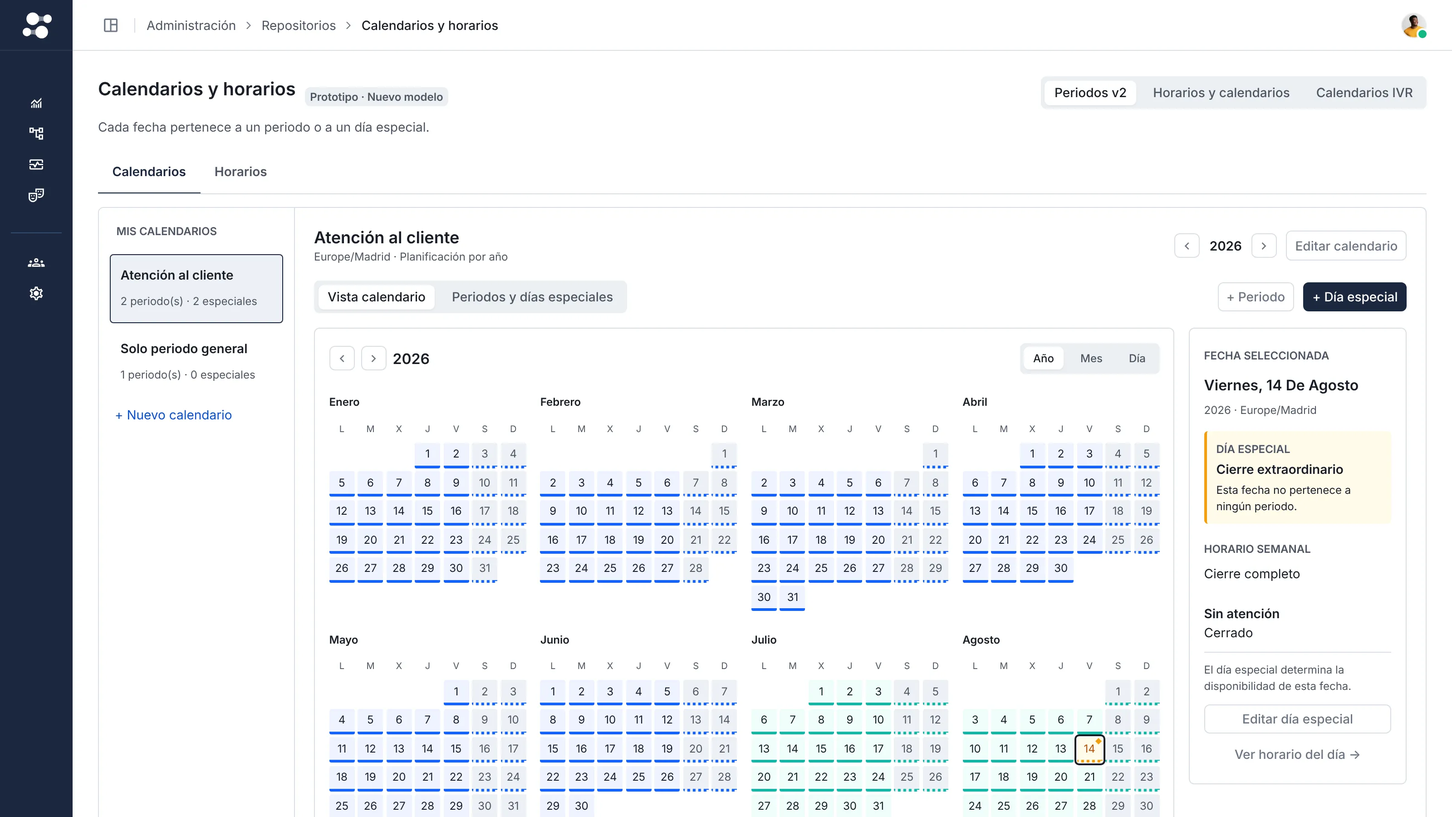
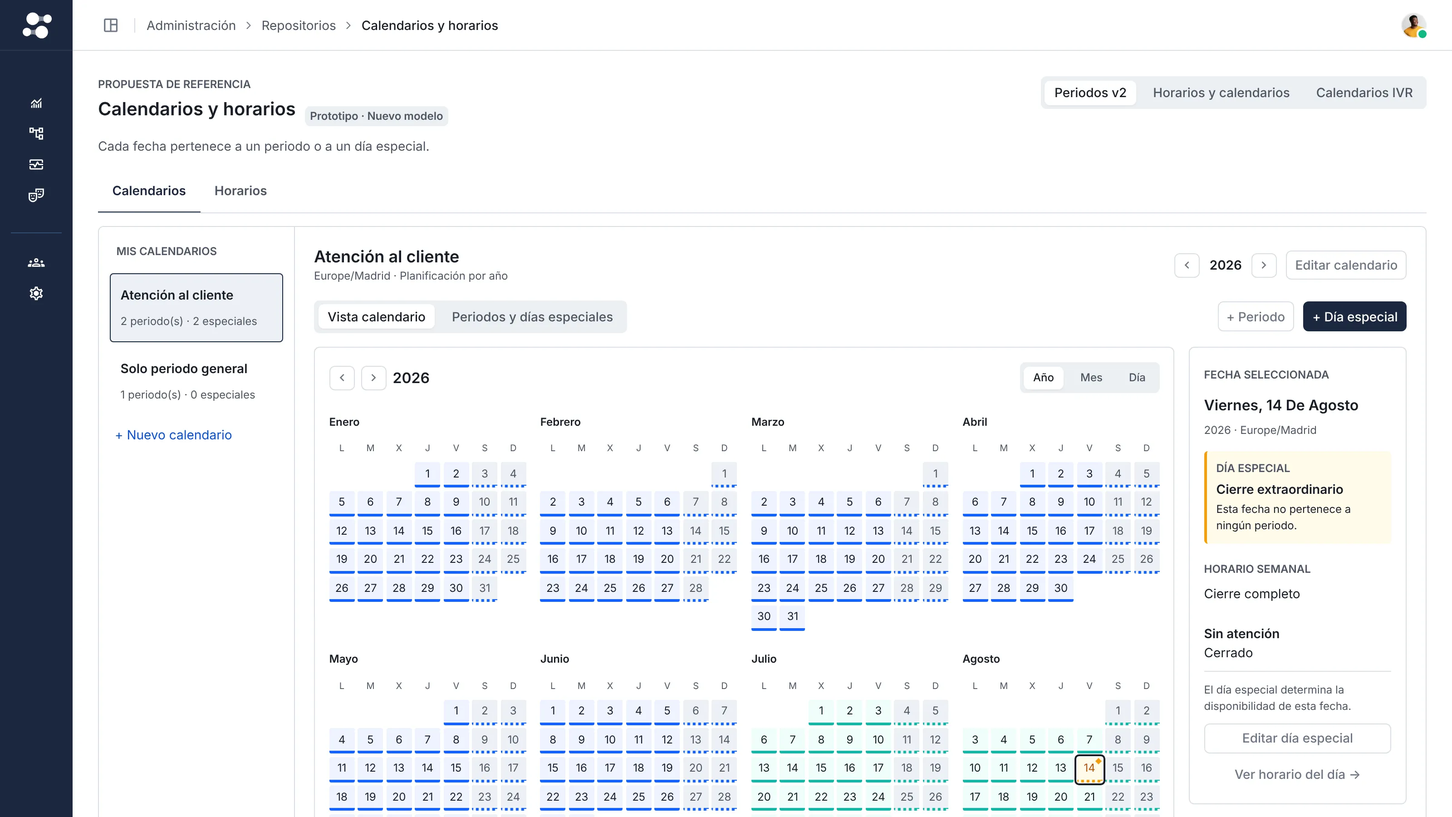
docs(lab): Horarios, la presentación: dos versiones, el Lab y la referencia
La presentación cuenta dos versiones de Horarios: la propuesta de referencia,
que es una sola versión con tres pantallas, y el rediseño del Lab. El texto, las
notas y los títulos ya no la tratan de «tres prototipos» ni la atribuyen a nadie.

- Capturas del Lab repetidas sobre la cabeza de su rama (98e88896): el estado del
  listado ya cabe en una línea («cierra 18:00», «abre mañana 10:00»). El reloj de
  todas las capturas queda fijo el 13 de noviembre a las 14:28.
- Capturas de la referencia repetidas sobre su rama nueva (claude/proto-referencia,
  #617): su cabecera dice «Propuesta de referencia» y el contenido baja 22 px, así
  que las regiones de la cámara bajan con él.
- Los enlaces de la referencia apuntan a su rama nueva y la tarjeta del Lab de
  sc-docs pregunta por la propuesta de referencia.

diff --git a/projects/sc-docs/public/explorations/horarios-presentacion/index.html b/projects/sc-docs/public/explorations/horarios-presentacion/index.html
@@ -3,7 +3,7 @@
 <head>
 <meta charset="utf-8">
 <meta name="viewport" content="width=device-width, initial-scale=1, viewport-fit=cover">
-<meta name="description" content="Horarios lado a lado: los tres prototipos de Calendarios portados tal cual frente al rediseño del Lab, decisión a decisión, qué sube a main y en qué orden, y el primer PR.">
+<meta name="description" content="Horarios lado a lado: la propuesta de referencia, portada tal cual, frente al rediseño del Lab, decisión a decisión; qué sube a main, en qué orden, y el primer PR.">
 <title>Horarios, lado a lado</title>
 <link rel="preload" href="fonts/inter-latin-800-normal.woff2" as="font" type="font/woff2" crossorigin>
 <link rel="preload" href="fonts/inter-latin-500-normal.woff2" as="font" type="font/woff2" crossorigin>
@@ -17,7 +17,7 @@
 @font-face { font-family: 'JetBrains Mono'; font-weight: 600; font-display: swap; src: url(fonts/jetbrains-mono-latin-600-normal.woff2) format('woff2'); }
 
 /* Escenario de 1920 × 1080 escalado a la ventana. Fondo marino de la marca; dos colores que no cambian en todo el
-   recorrido: ámbar para los prototipos portados tal cual, cian para el Lab, y plata para lo que ya está en main. */
+   recorrido: ámbar para la propuesta de referencia, portada tal cual, cian para el Lab, y plata para lo que ya está en main. */
 :root {
   --ink-950: #05080f; --ink-900: #0a101c; --ink-850: #0e1626; --ink-800: #131d31; --ink-700: #1c2942;
   --text: #f5f7fb; --soft: #c3cbd8; --muted: #8f9aad; --faint: #5f6a7d;
@@ -104,7 +104,7 @@ code { font-family: var(--mono); font-size: .86em; color: var(--text); backgroun
 .chip { display: inline-flex; align-items: center; gap: 12px; padding: 14px 20px 14px 16px; border-radius: 14px; background: rgba(255, 255, 255, .05); border: 1px solid var(--line-2); font-size: 23px; font-weight: 600; }
 .chip svg { width: 22px; height: 22px; color: var(--ok); flex: none; }
 
-/* Duo: tus prototipos a la izquierda, el Lab a la derecha */
+/* Duo: la referencia a la izquierda, el Lab a la derecha */
 .k-duo .slot--L { left: 76px; top: 252px; width: 864px; height: 486px; }
 .k-duo .slot--R { left: 980px; top: 252px; width: 864px; height: 486px; }
 
@@ -150,7 +150,7 @@ code { font-family: var(--mono); font-size: .86em; color: var(--text); backgroun
 .cover__shot .side { top: -40px; }
 .cover__shot--b .side { top: auto; bottom: -40px; }
 
-/* Abanico de los tres prototipos */
+/* Abanico: las tres pantallas de la referencia */
 .fan { position: absolute; left: 76px; top: 250px; width: 1120px; height: 760px; }
 .fan__item { position: absolute; width: 760px; height: 427.5px; }
 .fan__item > .slot { inset: 0; }
@@ -358,15 +358,15 @@ code { font-family: var(--mono); font-size: .86em; color: var(--text); backgroun
 const ALT = {
   'm-listado': 'Listado de Horarios en main, con las columnas Ahora y Estado',
   'm-editor': 'Editor de un horario en main: General, la semana día a día y el año a la derecha',
-  'p-periodos-anio': 'Prototipo Periodos v2: lista de calendarios, el año entero y el panel del día',
-  'p-periodos-lista': 'Prototipo Periodos v2: el año repartido entre periodos sin solapes',
-  'p-periodos-horario-editar': 'Prototipo Periodos v2: editor del horario semanal con una fila por día',
-  'p-periodos-periodo': 'Prototipo Periodos v2: diálogo Añadir periodo, que apunta a un horario semanal',
-  'p-periodos-especial': 'Prototipo Periodos v2: diálogo Añadir día especial',
-  'p-horarios-anio': 'Prototipo Horarios y calendarios: el año y el día seleccionado',
-  'p-horarios-reutilizables': 'Prototipo Horarios y calendarios: horarios reutilizables vinculados a calendarios',
-  'p-ivr-horarios': 'Prototipo Calendarios IVR: configuración y horarios por periodo',
-  'p-ivr-simulador': 'Prototipo Calendarios IVR: simulador de llamada que responde Fuera de hora',
+  'p-periodos-anio': 'Referencia, Periodos v2: lista de calendarios, el año entero y el panel del día',
+  'p-periodos-lista': 'Referencia, Periodos v2: el año repartido entre periodos sin solapes',
+  'p-periodos-horario-editar': 'Referencia, Periodos v2: editor del horario semanal con una fila por día',
+  'p-periodos-periodo': 'Referencia, Periodos v2: diálogo Añadir periodo, que apunta a un horario semanal',
+  'p-periodos-especial': 'Referencia, Periodos v2: diálogo Añadir día especial',
+  'p-horarios-anio': 'Referencia, Horarios y calendarios: el año y el día seleccionado',
+  'p-horarios-reutilizables': 'Referencia, Horarios y calendarios: horarios reutilizables vinculados a calendarios',
+  'p-ivr-horarios': 'Referencia, Calendarios IVR: configuración y horarios por periodo',
+  'p-ivr-simulador': 'Referencia, Calendarios IVR: simulador de llamada que responde Fuera de hora',
   'l-listado': 'Lab: Tiempo, la lista de horarios con una sola columna de estado',
   'l-festivos': 'Lab: Tiempo, las listas de festivos con cuántos horarios las aplican',
   'l-editor': 'Lab: editor de Postventa con la semana en tramos, tres meses y Nochebuena elegida',
@@ -378,20 +378,23 @@ const ALT = {
   'l-periodo': 'Lab: diálogo de periodo con su semana por tramos',
 };
 const TONE = (img) => img[0] === 'p' ? 'proto' : img[0] === 'l' ? 'lab' : 'main';
-const SIDE_LABEL = { proto: 'Tu prototipo <span>portado tal cual</span>', lab: 'Lab <span>el rediseño</span>', main: 'Main <span>hoy</span>' };
+const SIDE_LABEL = { proto: 'Referencia <span>portada tal cual</span>', lab: 'Lab <span>el rediseño</span>', main: 'Main <span>hoy</span>' };
 
-const CHAPTERS = ['Punto de partida', 'Tu modelo', 'Lado a lado', 'Lo que falta', 'Hacia main', '«Ahora»', 'Para decidir'];
+/* Dónde se toca cada versión: el preview de su rama. */
+const REF = { href: 'https://claude-proto-referencia.sc-supervisor.pages.dev/lab/calendarios/periodos', u: 'claude-proto-referencia.sc-supervisor.pages.dev/lab/calendarios', pr: '#617' };
+
+const CHAPTERS = ['Punto de partida', 'La referencia', 'Lado a lado', 'Lo que falta', 'Hacia main', '«Ahora»', 'Para decidir'];
 
 /* Regiones, en píxeles de la captura (1600 × 900). */
 const R = {
   m_cols: [740, 160, 830, 500], m_ahoraVerano: [758, 410, 82, 40], m_estadoVerano: [1428, 410, 82, 40], m_ahoraCol: [752, 172, 92, 476],
   m_general: [107, 128, 717, 400], m_semana: [107, 547, 717, 353], m_dia: [880, 232, 668, 140],
-  p_lista: [110, 232, 215, 250], p_anio: [346, 362, 948, 538], p_tabs: [108, 172, 220, 42], p_nav: [100, 150, 470, 340],
-  p_distrib: [346, 416, 1203, 106], p_filas: [421, 365, 757, 227], p_select: [491, 392, 616, 59], p_dialogo: [475, 150, 648, 598],
-  p_especial: [475, 198, 648, 501], p_aviso: [107, 771, 1464, 42], p_tarjetas: [107, 296, 1464, 520],
-  p_resultado: [872, 331, 680, 569], p_publicar: [1192, 187, 360, 32],
+  p_lista: [110, 254, 215, 250], p_anio: [346, 384, 948, 516], p_tabs: [108, 194, 220, 42], p_nav: [100, 172, 470, 340],
+  p_distrib: [346, 438, 1203, 106], p_filas: [421, 365, 757, 227], p_select: [491, 392, 616, 59], p_dialogo: [475, 150, 648, 598],
+  p_especial: [475, 198, 648, 501], p_aviso: [107, 793, 1464, 42], p_tarjetas: [107, 318, 1464, 520],
+  p_resultado: [872, 353, 680, 547], p_publicar: [1192, 209, 360, 32],
   l_tabs: [107, 136, 261, 37], l_miga: [157, 16, 171, 26], l_cabeza: [100, 0, 720, 250], l_estadoCol: [544, 232, 264, 480],
-  l_fines: [550, 330, 222, 36], l_verano: [550, 477, 72, 36], l_general: [550, 380, 196, 36],
+  l_fines: [550, 330, 189, 36], l_verano: [550, 477, 73, 33], l_general: [550, 379, 143, 36],
   l_tabla: [107, 291, 1464, 140], l_uso: [1272, 291, 140, 140],
   l_tramos: [130, 187, 374, 328], l_dia: [566, 427, 983, 72], l_yalas: [1280, 426, 262, 40], l_leyenda: [130, 747, 374, 112],
   l_tira: [544, 128, 1027, 392], l_toggle: [1421, 152, 128, 29],
@@ -406,8 +409,8 @@ const SLIDES = [
     kind: 'cover', ch: 0,
     title: 'Portada',
     beats: [
-      { t: 8, note: 'En unos minutos te cuento cómo hemos llegado al rediseño de Horarios y por qué decide distinto en algunas cosas. Todo lo que vas a ver son capturas de pantallas reales, no maquetas.' },
-      { t: 9, note: 'Las dos versiones viven en ramas aparte, en borrador, y no tocan main. Tus prototipos están portados tal cual, con nuestros componentes, para que comparemos flujos y no estilos. Si quieres tocarlas mientras hablamos, son estos dos enlaces.' },
+      { t: 8, note: 'En unos minutos, cómo hemos llegado al rediseño de Horarios y por qué decide distinto en algunas cosas. Todo lo que se ve son capturas de pantallas reales, no maquetas.' },
+      { t: 9, note: 'Las dos versiones viven en ramas aparte, en borrador, y no tocan main. La referencia está portada tal cual, con nuestros componentes, para comparar flujos y no estilos. Para tocarlas mientras se habla, están estos dos enlaces.' },
     ],
   },
   {
@@ -429,7 +432,7 @@ const SLIDES = [
     kind: 'single', ch: 0, S: 'm-editor',
     eyebrow: '01 · Punto de partida',
     title: 'El editor enseña el resultado al lado, pero no cabe en una pantalla',
-    fact: { k: 'Se queda', t: 'El día elegido dice <b>sus horas y qué regla las decide</b> (DD-254). Está en las tres versiones.' },
+    fact: { k: 'Se queda', t: 'El día elegido dice <b>sus horas y qué regla las decide</b> (DD-254). Está en main y en las dos versiones.' },
     beats: [
       { cap: 'Las reglas a la izquierda y el año a la derecha, que se repinta con cada cambio.', note: 'La idea de ver el resultado al lado ya estaba en main y es buena. Lo que falla es el espacio.' },
       { S: { cam: R.m_general, rings: [{ r: R.m_general }] },
@@ -440,15 +443,15 @@ const SLIDES = [
         note: 'Para ver el horario entero hay que hacer scroll, y al hacerlo se pierde el calendario.' },
       { S: { cam: R.m_dia, rings: [{ r: R.m_dia }] },
         cap: 'Lo bueno se queda: el día elegido dice <b>sus horas y de dónde salen</b>.',
-        note: 'Esto lo mantenemos en todas las versiones, también en la tuya.' },
+        note: 'Esto se mantiene en main y en las dos versiones.' },
     ],
   },
 
-  /* ── 02 · Tu modelo ─────────────────────────────────────────────────────────────────────── */
+  /* ── 02 · La referencia ─────────────────────────────────────────────────────────────────── */
   {
     kind: 'fan', ch: 1, imgs: ['p-periodos-anio', 'p-horarios-anio', 'p-ivr-horarios'], labels: ['Periodos v2', 'Horarios y calendarios', 'Calendarios IVR'],
-    eyebrow: '02 · Tu modelo',
-    title: 'Tus tres prototipos dicen lo mismo',
+    eyebrow: '02 · La referencia',
+    title: 'Una propuesta de referencia, <em>tres pantallas</em>',
     list: [
       ['El calendario es lo que se usa.', 'Tiene zona horaria y resuelve cada fecha por capas: día especial, periodo y semana habitual.'],
       ['El horario semanal es una pieza.', 'Varios calendarios la comparten y la reutilizan.'],
@@ -456,7 +459,7 @@ const SLIDES = [
       ['Se comprueba antes de guardar.', 'Una fecha a una hora, y los solapes entre periodos.'],
     ],
     beats: [
-      { t: 7, note: 'Los he leído como uno solo, porque coinciden en lo importante. Periodos v2 es el más maduro, así que es el que más uso para comparar.' },
+      { t: 7, note: 'La referencia es una sola propuesta repartida en tres pantallas, y las tres coinciden en lo importante. Periodos v2 es la más madura, así que es la que más uso para comparar.' },
       { lift: 0, t: 8, note: 'En los tres, lo que se asigna a un grupo o a la IVR es el calendario. Por eso es él quien tiene la zona horaria.' },
       { lift: 1, t: 7, note: 'Y el horario semanal es la pieza que se reutiliza: en Horarios y calendarios dice a cuántos calendarios está vinculado.' },
       { lift: 0, t: 7, note: 'Abrir en el año da contexto al instante, y el panel del día contesta a «¿por qué este día es así?».' },
@@ -465,22 +468,22 @@ const SLIDES = [
   },
   {
     kind: 'duo', ch: 1, L: 'p-periodos-lista', R: 'l-editor',
-    eyebrow: '02 · Tu modelo',
-    title: 'En lo que más importa, <em>ya pensamos igual</em>',
+    eyebrow: '02 · La referencia',
+    title: 'En lo que más importa, <em>las dos coinciden</em>',
     chips: ['Un dueño por fecha', 'Periodos sin solape', 'El día dice de dónde sale', 'Comprobar una hora'],
     chipsAt: 4,
     beats: [
       { cap: 'Las dos versiones dan a cada fecha <b>un solo dueño</b>, y lo enseñan en pantalla.', note: 'Antes de las diferencias, lo que compartimos. Es más de lo que parece.' },
       { L: { cam: R.p_distrib, rings: [{ r: R.p_distrib, label: 'Cada día, de un solo periodo', pos: 'b' }] },
-        cap: 'Tu Periodos v2 lo dibuja como una barra: cada día del año pertenece a un periodo o a un día especial, <b>sin solapes</b>.',
-        note: 'Esta barra es de lo mejor de tu prototipo: se entiende de un vistazo que no hay huecos ni dobles.' },
+        cap: 'Periodos v2 lo dibuja como una barra: cada día del año pertenece a un periodo o a un día especial, <b>sin solapes</b>.',
+        note: 'Esta barra es de lo mejor de la referencia: se entiende de un vistazo que no hay huecos ni dobles.' },
       { R: { cam: R.l_leyenda, rings: [{ r: R.l_leyenda, label: 'Manda el de más arriba', pos: 't' }] },
         cap: 'El Lab aplica la misma regla y la dice en el editor: día especial o festivo, después periodo, después semana habitual.',
-        note: 'Es tu orden de capas, con el festivo al nivel del día especial.' },
+        note: 'Es el mismo orden de capas de la referencia, con el festivo al nivel del día especial.' },
       { R: { cam: [560, 410, 995, 110], rings: [{ r: R.l_dia }, { r: R.l_yalas, label: '¿Y a las 14:28?', pos: 'b' }] },
         cap: 'Y los dos explican un día concreto: Nochebuena abre <b>de 09:00 a 14:00</b> porque es día especial, y a las 14:28 ya no se atiende.',
-        note: 'Tu panel de «Fecha seleccionada» y esta barra hacen el mismo trabajo. La diferencia es que aquí también se comprueba una hora sin salir del editor.' },
-      { cap: 'Cuatro ideas tuyas que el rediseño conserva tal cual:', note: 'Con esto en común, las diferencias son de flujo, no de modelo de datos.' },
+        note: 'El panel «Fecha seleccionada» de la referencia y esta barra hacen el mismo trabajo. La diferencia es que aquí también se comprueba una hora sin salir del editor.' },
+      { cap: 'Cuatro ideas de la referencia que el rediseño conserva tal cual:', note: 'Con esto en común, las diferencias son de flujo, no de modelo de datos.' },
     ],
   },
 
@@ -490,9 +493,9 @@ const SLIDES = [
     eyebrow: '03 · Decisión <i>1</i> de 7',
     title: 'Se comparten <em>los festivos</em>, no la semana',
     beats: [
-      { cap: 'Tu modelo comparte franjas y semanas entre calendarios. <b>El Lab comparte listas de festivos.</b>', note: 'Esta es la diferencia de fondo, y de ella salen casi todas las demás.' },
-      { L: { cam: [107, 600, 1464, 260], rings: [{ r: R.p_aviso, label: 'Tu propio aviso', pos: 't' }] },
-        cap: 'Tu prototipo ya avisa del riesgo: <b>si cambias un horario compartido, cambian todos los calendarios vinculados.</b>',
+      { cap: 'La referencia comparte franjas y semanas entre calendarios. <b>El Lab comparte listas de festivos.</b>', note: 'Esta es la diferencia de fondo, y de ella salen casi todas las demás.' },
+      { L: { cam: [107, 622, 1464, 260], rings: [{ r: R.p_aviso, label: 'Su propio aviso', pos: 't' }] },
+        cap: 'La referencia ya avisa del riesgo: <b>si cambias un horario compartido, cambian todos los calendarios vinculados.</b>',
         note: 'Compartir una semana es cómodo hasta que un equipo necesita salir media hora antes que otro.' },
       { R: { cam: [107, 250, 1464, 220], rings: [{ r: R.l_uso, label: 'La aplican 2 horarios', pos: 'b' }] },
         cap: 'Una lista de festivos sí se repite tal cual entre equipos, y caduca cada año. <b>Festivos Barcelona la aplican dos horarios.</b>',
@@ -506,7 +509,7 @@ const SLIDES = [
     eyebrow: '03 · Decisión <i>2</i> de 7',
     title: 'Vive en Repositorios, dentro de <em>«Tiempo»</em>',
     beats: [
-      { cap: 'Tu prototipo es una página propia con pestañas. El Lab lo pone en Repositorios, en una clasificación <b>«Tiempo» con dos listas</b>.', note: 'Dónde vive cambia cómo se llega y cómo se explica.' },
+      { cap: 'La referencia es una página propia con pestañas. El Lab lo pone en Repositorios, en una clasificación <b>«Tiempo» con dos listas</b>.', note: 'Dónde vive cambia cómo se llega y cómo se explica.' },
       { L: { cam: R.p_nav, rings: [{ r: R.p_tabs, label: 'Calendarios y Horarios', pos: 'b' }] },
         cap: 'Calendarios y Horarios, cada uno con su lista a la izquierda y el detalle a la derecha.',
         note: 'Es una página completa para un área que, en el menú, compite con Agendas o Tipificaciones.' },
@@ -514,7 +517,7 @@ const SLIDES = [
         cap: 'En el Lab son dos pestañas de la misma clasificación, y se llega <b>como a Agendas o a Tipificaciones</b>.',
         note: 'Mismo patrón que el resto de Repositorios: nadie tiene que aprender una pantalla nueva.' },
       { why: 'Repositorios es donde el supervisor ya busca lo que reutiliza. Y una tarjeta nueva en el hub no cabe a 1440 × 800 (DD-251); una pestaña dentro de «Tiempo», sí.',
-        note: 'Esta la decidimos el 13 de noviembre. Si prefieres una entrada propia, es la decisión más fácil de cambiar de todas.' },
+        note: 'Se decidió el 13 de noviembre. Si se prefiere una entrada propia, es la decisión más fácil de cambiar de todas.' },
     ],
   },
   {
@@ -523,12 +526,12 @@ const SLIDES = [
     title: 'El listado dice si se atiende ahora, <em>y hasta cuándo</em>',
     beats: [
       { cap: 'Lo primero que se mira de un horario no es cuántas reglas tiene: <b>es si está atendiendo</b>.', note: 'Pensemos en quien abre esta lista un martes a las 17:50.' },
-      { L: { cam: R.p_lista, rings: [{ r: [121, 280, 191, 75], label: '2 periodos, 2 especiales', pos: 'b' }] },
-        cap: 'Tu lista de calendarios cuenta periodos y días especiales.',
+      { L: { cam: R.p_lista, rings: [{ r: [121, 302, 191, 75], label: '2 periodos, 2 especiales', pos: 'b' }] },
+        cap: 'La lista de calendarios de la referencia cuenta periodos y días especiales.',
         note: 'Es útil para quien lo configura, pero no responde a la pregunta del momento.' },
       { R: { cam: R.l_estadoCol, rings: [{ r: R.l_fines, label: 'Cuándo abre', pos: 't' }, { r: R.l_verano, label: 'Inactivo, sin hora', pos: 'b' }] },
         cap: 'El Lab junta «Ahora» y «Estado» en una columna: <b>abierto o cerrado, y cuándo cambia</b>; o «Inactivo», sin hora.',
-        note: '«Cerrado, abre mañana a las 10:00». Una sola lectura, y en la zona horaria de cada horario.' },
+        note: '«Cerrado, abre mañana 10:00». Una sola lectura, corta para que quepa en una línea, y en la zona horaria de cada horario.' },
       { why: 'El número de reglas se ve al abrir el horario. El estado de ahora es lo que se consulta de un vistazo, y main ya sabe calcularlo: solo falta decirlo.',
         note: 'Por eso es el primer PR que propongo: el cálculo ya existe y está probado.' },
     ],
@@ -538,7 +541,7 @@ const SLIDES = [
     eyebrow: '03 · Decisión <i>4</i> de 7',
     title: 'La semana se escribe <em>en tramos</em>, no día a día',
     beats: [
-      { cap: 'Tu editor tiene una fila por día y «Copiar lunes a». <b>El Lab agrupa los días que comparten horas.</b>', note: 'Es la parte del editor que más se toca, así que es donde más se nota.' },
+      { cap: 'El editor de la referencia tiene una fila por día y «Copiar lunes a». <b>El Lab agrupa los días que comparten horas.</b>', note: 'Es la parte del editor que más se toca, así que es donde más se nota.' },
       { L: { cam: R.p_filas, rings: [{ r: R.p_filas, label: 'Tres veces lo mismo', pos: 'b' }] },
         cap: 'Lunes, martes y miércoles repiten 09:00 a 14:00 y 16:00 a 18:00. <b>Cada cambio se hace en cada fila</b>, o se vuelve a copiar.',
         note: 'Con siete días y jornada partida son catorce campos de hora para decir una sola cosa.' },
@@ -554,9 +557,9 @@ const SLIDES = [
     eyebrow: '03 · Decisión <i>5</i> de 7',
     title: 'La semana y el calendario, <em>a la vista a la vez</em>',
     beats: [
-      { cap: 'Tu prototipo abre en el año, y las horas se cambian en otra pestaña. <b>En el Lab, la semana y el calendario comparten pantalla.</b>', note: 'Esta es la petición con la que empezó el rediseño.' },
+      { cap: 'La referencia abre en el año, y las horas se cambian en otra pestaña. <b>En el Lab, la semana y el calendario comparten pantalla.</b>', note: 'Esta es la petición con la que empezó el rediseño.' },
       { L: { cam: R.p_anio },
-        cap: 'El año de tu Periodos v2 se lee muy bien, pero <b>de septiembre a diciembre queda por debajo del pliegue</b>.',
+        cap: 'El año de Periodos v2 se lee muy bien, pero <b>de septiembre a diciembre queda por debajo del pliegue</b>.',
         note: 'Y para cambiar una hora hay que salir a la pestaña Horarios y volver.' },
       { R: { cam: R.l_tira, rings: [{ r: R.l_toggle, label: '3 meses o año', pos: 'bl' }] },
         cap: 'El Lab pinta el año en una tira de 12 × 31 que <b>cabe entera</b>, y cambia a tres meses cuando hace falta detalle.',
@@ -570,7 +573,7 @@ const SLIDES = [
     eyebrow: '03 · Decisión <i>6</i> de 7',
     title: 'Los periodos nacen en el calendario <em>y llevan su semana</em>',
     beats: [
-      { cap: 'Para crear un periodo, tu prototipo pide fechas y un horario semanal que ya exista. <b>El Lab parte de los días que eliges en el calendario.</b>', note: 'Aquí se nota la diferencia de modelo de la decisión 1.' },
+      { cap: 'Para crear un periodo, la referencia pide fechas y un horario semanal que ya exista. <b>El Lab parte de los días que eliges en el calendario.</b>', note: 'Aquí se nota la diferencia de modelo de la decisión 1.' },
       { L: { cam: R.p_dialogo, rings: [{ r: R.p_select, label: 'Hay que crearlo antes', pos: 'b' }] },
         cap: 'El periodo apunta a un horario de la biblioteca. Un día especial, igual: <b>o cerrado todo el día, o un horario semanal entero</b>.',
         note: 'Para abrir Nochebuena hasta las 14:00 hay que crear antes una semana completa que solo se usa ese día.' },
@@ -580,7 +583,7 @@ const SLIDES = [
       { R: { img: 'l-periodo', cam: R.l_semanaPeriodo, rings: [{ r: R.l_semanaPeriodo, label: 'Su semana, en tramos', pos: 't' }] },
         cap: 'El periodo lleva dentro su semana, con los mismos tramos. Y un día especial puede ser <b>«Horario especial» de 09:00 a 14:00</b> sin crear una semana para un día.',
         note: 'El diálogo de periodo del Lab hereda la lógica del de producción; solo cambia la semana por la de tramos.' },
-      { why: 'Saber a qué hora cierra un viernes de verano no debería pedir tres saltos: calendario, periodo y horario semanal. Tu validación se queda: dos periodos no comparten fechas, y el error nombra al otro.',
+      { why: 'Saber a qué hora cierra un viernes de verano no debería pedir tres saltos: calendario, periodo y horario semanal. La validación de la referencia se queda: dos periodos no comparten fechas, y el error nombra al otro.',
         note: 'La validación de solapes está en main desde DD-251 y el Lab la usa tal cual.' },
     ],
   },
@@ -589,7 +592,7 @@ const SLIDES = [
     eyebrow: '03 · Decisión <i>7</i> de 7',
     title: 'Los festivos se importan, <em>no se escriben uno a uno</em>',
     beats: [
-      { cap: 'En tu prototipo cada festivo es un día especial que se crea a mano, y <b>al cambiar de año no se copia</b>.', note: 'Tu Periodos v2 lo dice a propósito: los periodos y días especiales tienen fechas concretas.' },
+      { cap: 'En la referencia cada festivo es un día especial que se crea a mano, y <b>al cambiar de año no se copia</b>.', note: 'Periodos v2 lo dice a propósito: los periodos y días especiales tienen fechas concretas.' },
       { L: { cam: R.p_especial, rings: [{ r: R.p_especial }] },
         cap: 'Doce festivos son <b>doce veces este diálogo</b>, y otra vez el año siguiente.',
         note: 'Y con varios horarios, cada uno repite los mismos doce.' },
@@ -611,7 +614,7 @@ const SLIDES = [
   {
     kind: 'single', ch: 3, S: 'p-ivr-simulador',
     eyebrow: '04 · Lo que falta en el Lab',
-    title: 'Lo que tus prototipos tienen y <em>el Lab todavía no</em>',
+    title: 'Lo que la referencia tiene y <em>el Lab todavía no</em>',
     list: [
       [1, '<b>Mensaje de fuera de hora</b> por regla, y el simulador de llamada.'],
       [2, '<b>Versiones:</b> borrador, guardar versión y publicar.'],
@@ -619,11 +622,11 @@ const SLIDES = [
     ],
     propuesta: { at: 3, t: 'Entran después de la pantalla, junto con el nodo de horario del Diseñador VUI. DD-251 ya los dejó fuera de la primera tanda.' },
     beats: [
-      { cap: 'Tu Calendarios IVR responde a la pregunta que de verdad importa en producción: <b>¿qué oye quien llama ahora mismo?</b>', note: 'Aquí tu prototipo va por delante, y lo quiero decir claro.' },
+      { cap: 'Calendarios IVR responde a la pregunta que de verdad importa en producción: <b>¿qué oye quien llama ahora mismo?</b>', note: 'Aquí la referencia va por delante, y conviene decirlo claro.' },
       { S: { cam: R.p_resultado, rings: [{ r: R.p_resultado }] },
         cap: '«Fuera de hora», con su mensaje, la regla que decide y por qué. <b>El Lab no tiene esto.</b>',
         note: 'Es la pieza que une horarios e IVR, y la que más valor da a soporte.' },
-      { S: { cam: [1040, 150, 540, 110], rings: [{ r: R.p_publicar, label: 'Validado, borrador, publicar', pos: 'bl' }] },
+      { S: { cam: [1040, 172, 540, 110], rings: [{ r: R.p_publicar, label: 'Validado, borrador, publicar', pos: 'bl' }] },
         cap: 'Y publicar con versiones: en un cambio de horario en caliente, <b>es tranquilidad</b>.',
         note: 'Un cambio de horario mal hecho deja a clientes sin atender. Poder volver atrás vale mucho.' },
       { cap: 'Nada de esto choca con el rediseño: <b>se suma encima</b>.', note: 'Propongo dejarlo para después de la pantalla, cuando el modelo esté cerrado.' },
@@ -642,17 +645,17 @@ const SLIDES = [
       { t: 'Elegir y actuar en el calendario', where: 'Editor', size: 'M', d: 'Día, rango o semana, la barra de acciones y «¿Y a las…?».' },
       { t: 'El editor sin scroll', where: 'Editor', size: 'M', d: 'Dos filas a la derecha y una sola lista de excepciones. Recoloca lo anterior.' },
       { t: 'Festivos importados', where: 'Festivos', size: 'M', d: 'De dónde salen los oficiales: un catálogo anual o un servicio.', dep: 'Espera una decisión de datos' },
-      { t: '«Tiempo» en Repositorios', where: 'Hub y listas', size: 'L', d: 'Cambia el hub y su COA.', dep: 'Espera tu visto bueno' },
+      { t: '«Tiempo» en Repositorios', where: 'Hub y listas', size: 'L', d: 'Cambia el hub y su COA.', dep: 'Espera el visto bueno' },
     ],
-    foot: '<b>No sube:</b> el andamio del Lab (rutas <code>/lab</code> y textos solo en español) ni el port literal de tus prototipos, que se queda como referencia.',
+    foot: '<b>No sube:</b> el andamio del Lab (rutas <code>/lab</code> y textos solo en español) ni el port literal de la referencia, que se queda para consultar.',
     beats: [
       { t: 7, note: 'Lo ordeno por riesgo y por dependencias: primero lo que no depende de nadie y se puede probar solo.' },
       { cap: 'Empieza por lo más pequeño y visible: <b>el listado</b>.', note: 'Un PR de un día, que mejora algo que se ve en cuanto se entra.' },
       { cap: 'Después la semana, que es <b>lo que más se toca</b> del editor.', note: 'Cambia también la semana del diálogo de periodo, que comparte la pieza.' },
-      { cap: 'Con la semana en su sitio, <b>elegir días y actuar sobre ellos</b>.', note: 'Aquí entra «¿Y a las…?», que es tu «Comprobar fecha» dentro del editor.' },
+      { cap: 'Con la semana en su sitio, <b>elegir días y actuar sobre ellos</b>.', note: 'Aquí entra «¿Y a las…?», que es el «Comprobar fecha» de la referencia dentro del editor.' },
       { cap: 'La maqueta sin scroll va cuarta: <b>recoloca lo anterior</b>, así que se hace cuando ya funciona.', note: 'Si la hiciéramos primero, la rehaceríamos dos veces.' },
       { cap: 'Los festivos importados esperan a una <b>decisión de datos</b>.', note: '¿Mantenemos un catálogo por año, o lo leemos de un servicio? Es una pregunta para producto y backend.' },
-      { cap: '«Tiempo» en el hub, al final: <b>toca a todos</b>, y conviene decidirlo contigo.', note: 'Es la única que cambia la navegación.' },
+      { cap: '«Tiempo» en el hub, al final: <b>toca a todos</b>, y conviene decidirlo juntos.', note: 'Es la única que cambia la navegación.' },
       { cap: 'Cada paso es útil por sí solo: <b>si paramos en el tercero, main ya está mejor que hoy</b>.', note: 'Y nada del Lab entra tal cual: cada pieza pasa por las reglas de main, sus cuatro idiomas y sus pruebas.' },
     ],
   },
@@ -665,10 +668,10 @@ const SLIDES = [
     ejemplos: {
       at: 3,
       rows: [
-        ['Horario General', 'jueves a las 17:00', 'open', 'cierra a las 18:00'],
-        ['Horario General', 'viernes a las 19:00', 'closed', 'abre el lun a las 09:00'],
-        ['Postventa', '24 de diciembre a las 13:00, día especial', 'open', 'cierra a las 14:00'],
-        ['Horario LATAM', '12:44 en Madrid, 05:44 en México', 'closed', 'abre a las 14:00'],
+        ['Horario General', 'jueves a las 17:00', 'open', 'cierra 18:00'],
+        ['Horario General', 'viernes a las 19:00', 'closed', 'abre lun 09:00'],
+        ['Postventa', '24 de diciembre a las 13:00, día especial', 'open', 'cierra 14:00'],
+        ['Horario LATAM', '12:44 en Madrid, 05:44 en México', 'closed', 'abre 14:00'],
         ['24/7 Emergencias', 'cualquier momento', 'open', 'siempre'],
         ['Horario Verano', 'desactivado', 'off', ''],
       ],
@@ -711,20 +714,20 @@ const SLIDES = [
     eyebrow: '07 · Para decidir hoy',
     title: 'Tres preguntas, <em>y la tercera no espera</em>',
     qs: [
-      ['¿Compartimos listas de festivos, como el Lab, o semanas, como tu modelo?', 'De esto salen las decisiones 6 y 7.'],
+      ['¿Compartimos listas de festivos, como el Lab, o semanas, como la referencia?', 'De esto salen las decisiones 6 y 7.'],
       ['¿Horarios vive en Repositorios, dentro de «Tiempo», con Horarios y Festivos?', 'Es la más fácil de cambiar, y la última en subir.'],
       ['¿Abrimos ya el PR de «Ahora»?', 'No depende de las otras dos.'],
     ],
     links: [
       { tone: 'lab', k: 'Lab', t: 'El rediseño', u: 'claude-lab-horarios.sc-supervisor.pages.dev/lab/horarios', href: 'https://claude-lab-horarios.sc-supervisor.pages.dev/lab/horarios' },
-      { tone: 'proto', k: 'Tu prototipo', t: 'Portado tal cual', u: 'claude-proto-jefe.sc-supervisor.pages.dev/lab/calendarios', href: 'https://claude-proto-jefe.sc-supervisor.pages.dev/lab/calendarios/periodos' },
-      { tone: 'lab', k: 'GitHub', t: 'Los dos PR, en borrador', u: 'smartcontact-ui #614 y #615', href: 'https://github.com/smartcontact-hub/smartcontact-ui/pulls' },
+      { tone: 'proto', k: 'Referencia', t: 'La propuesta, portada tal cual', u: REF.u, href: REF.href },
+      { tone: 'lab', k: 'GitHub', t: 'Los dos PR, en borrador', u: 'smartcontact-ui #614 y #617', href: 'https://github.com/smartcontact-hub/smartcontact-ui/pulls' },
     ],
     beats: [
       { t: 6, note: 'Para cerrar, tres preguntas. Con las dos primeras se ordena todo lo demás.' },
-      { t: 8, note: 'Si prefieres compartir semanas, el Lab puede convivir con ello: una semana compartida sería otra lista de Tiempo.' },
+      { t: 8, note: 'Si se prefiere compartir semanas, el Lab puede convivir con ello: una semana compartida sería otra lista de Tiempo.' },
       { t: 8, note: 'La navegación es lo más visible para el resto del producto, por eso la dejo para el final.' },
-      { t: 8, note: 'Y esta es la que me gustaría llevarme hoy: el PR de «Ahora» se puede abrir mañana.' },
+      { t: 8, note: 'Y esta es la que conviene cerrar hoy: el PR de «Ahora» se puede abrir mañana.' },
       { t: 8, note: 'Los enlaces quedan aquí para tocar las dos versiones con calma. Gracias.' },
     ],
   },
@@ -784,11 +787,11 @@ function build(s, i) {
   if (s.kind === 'cover') {
     h = `<div class="cover__text">
         <div class="eyebrow" data-in>Supervisor · Horarios · 13 de noviembre de 2026</div>
-        <h1 class="cover__title" data-in>De tus prototipos a la <em>pantalla de Horarios</em></h1>
-        <p class="cover__lead" data-in>Tus tres prototipos y el rediseño del Lab, montados con la interfaz real del Supervisor y comparados decisión a decisión. Al final: qué sube a main, en qué orden y por dónde empezar.</p>
+        <h1 class="cover__title" data-in>Dos versiones de Horarios, <em>lado a lado</em></h1>
+        <p class="cover__lead" data-in>La propuesta de referencia y el rediseño del Lab, montados con la interfaz real del Supervisor y comparados decisión a decisión. Al final: qué sube a main, en qué orden y por dónde empezar.</p>
       </div>
       <div class="cover__links">
-        <a class="link-card" data-tone="proto" data-at="1" href="https://claude-proto-jefe.sc-supervisor.pages.dev/lab/calendarios/periodos" target="_blank" rel="noopener"><div class="link-card__k">Tu prototipo · PR #615</div><div class="link-card__t">Portado tal cual</div><div class="link-card__u">/lab/calendarios</div></a>
+        <a class="link-card" data-tone="proto" data-at="1" href="${REF.href}" target="_blank" rel="noopener"><div class="link-card__k">Referencia · PR ${REF.pr}</div><div class="link-card__t">La propuesta, portada tal cual</div><div class="link-card__u">/lab/calendarios</div></a>
         <a class="link-card" data-tone="lab" data-at="1" href="https://claude-lab-horarios.sc-supervisor.pages.dev/lab/horarios" target="_blank" rel="noopener"><div class="link-card__k">Lab · PR #614</div><div class="link-card__t">El rediseño</div><div class="link-card__u">/lab/horarios</div></a>
       </div>
       <div class="cover__shots" aria-hidden="true">
@@ -1066,7 +1069,7 @@ function updateHud() {
   for (let k = 0; k < state.s; k++) done += SLIDES[k].beats.length;
   done += state.b + 1;
   $('#hudFill').style.transform = `scaleX(${done / totalBeats})`;
-  const titulo = strip(s.title === 'Portada' ? 'De tus prototipos a la pantalla de Horarios' : s.title);
+  const titulo = strip(s.title === 'Portada' ? 'Dos versiones de Horarios, lado a lado' : s.title);
   $('#hudWhere').innerHTML = `<b>0${s.ch + 1} ${CHAPTERS[s.ch]}</b>${titulo}`;
   $$('#hudDots button').forEach((d, k) => { d.classList.toggle('is-on', k === state.s); d.classList.toggle('is-past', k < state.s); d.setAttribute('aria-current', k === state.s ? 'step' : 'false'); });
   $$('#idx button').forEach((d) => d.classList.toggle('is-on', +d.dataset.s === state.s));
@@ -1139,7 +1142,7 @@ function boot() {
       if (s.ch !== ci) return;
       const b = document.createElement('button');
       b.type = 'button'; b.dataset.s = i;
-      b.innerHTML = strip(s.title === 'Portada' ? 'Portada: de tus prototipos a la pantalla de Horarios' : s.title);
+      b.innerHTML = strip(s.title === 'Portada' ? 'Portada: dos versiones de Horarios, lado a lado' : s.title);
       b.addEventListener('click', () => { overlay('index', false); go(i, 0, i >= state.s ? 1 : -1); });
       col.appendChild(b);
     });

diff --git a/projects/sc-docs/src/app/pages/lab/explorations.data.ts b/projects/sc-docs/src/app/pages/lab/explorations.data.ts
@@ -254,7 +254,7 @@ export const LABS: readonly Lab[] = [
   {
     id: 'lab-horarios-presentacion',
     title: 'Horarios, la presentación',
-    question: '¿Por qué el rediseño de Horarios decide distinto que el prototipo, qué sube a main y por dónde se empieza?',
+    question: '¿Por qué el rediseño de Horarios decide distinto que la propuesta de referencia, qué sube a main y por dónde se empieza?',
     controls: ['Flechas o espacio: paso a paso', 'P: reproducir solo', 'N: notas', 'Z: la captura entera'],
     where: 'El teclado, o la barra de abajo al mover el ratón.',
     // Una página estática de sc-docs (public/explorations): vive en su rama, así que el enlace es el preview de la rama.
